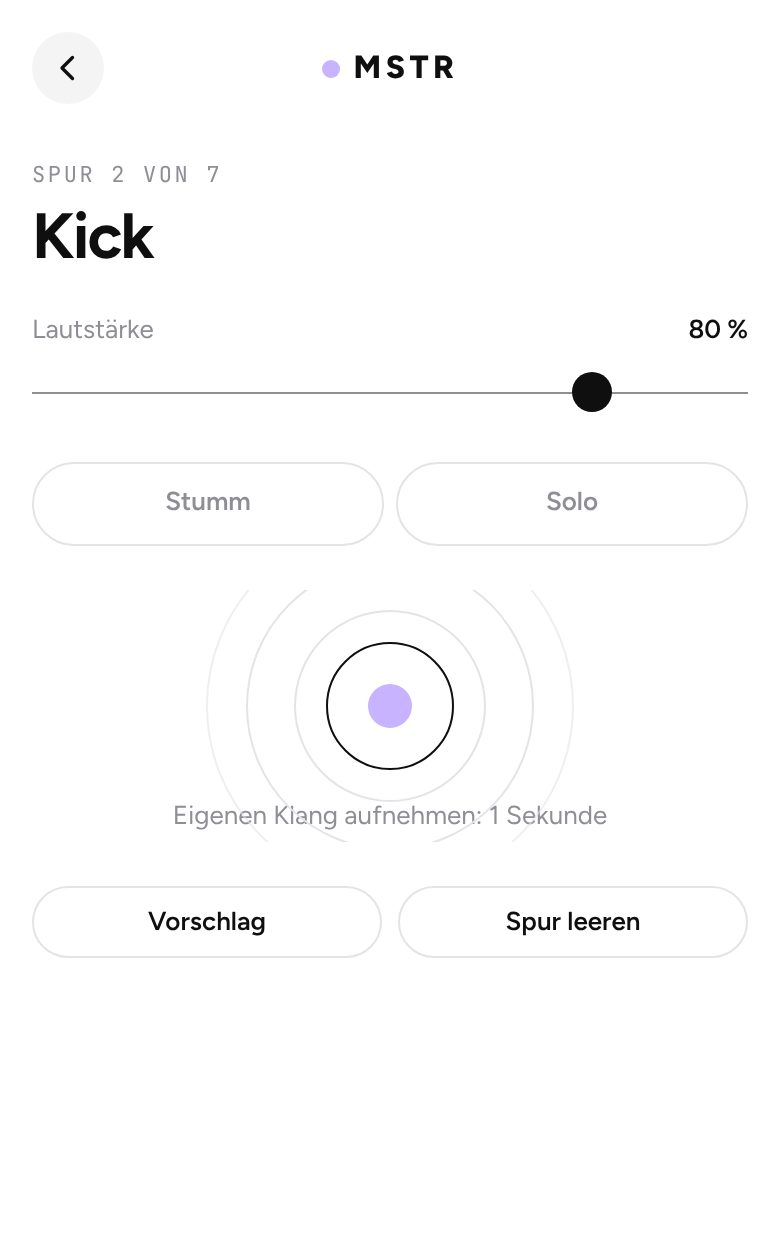
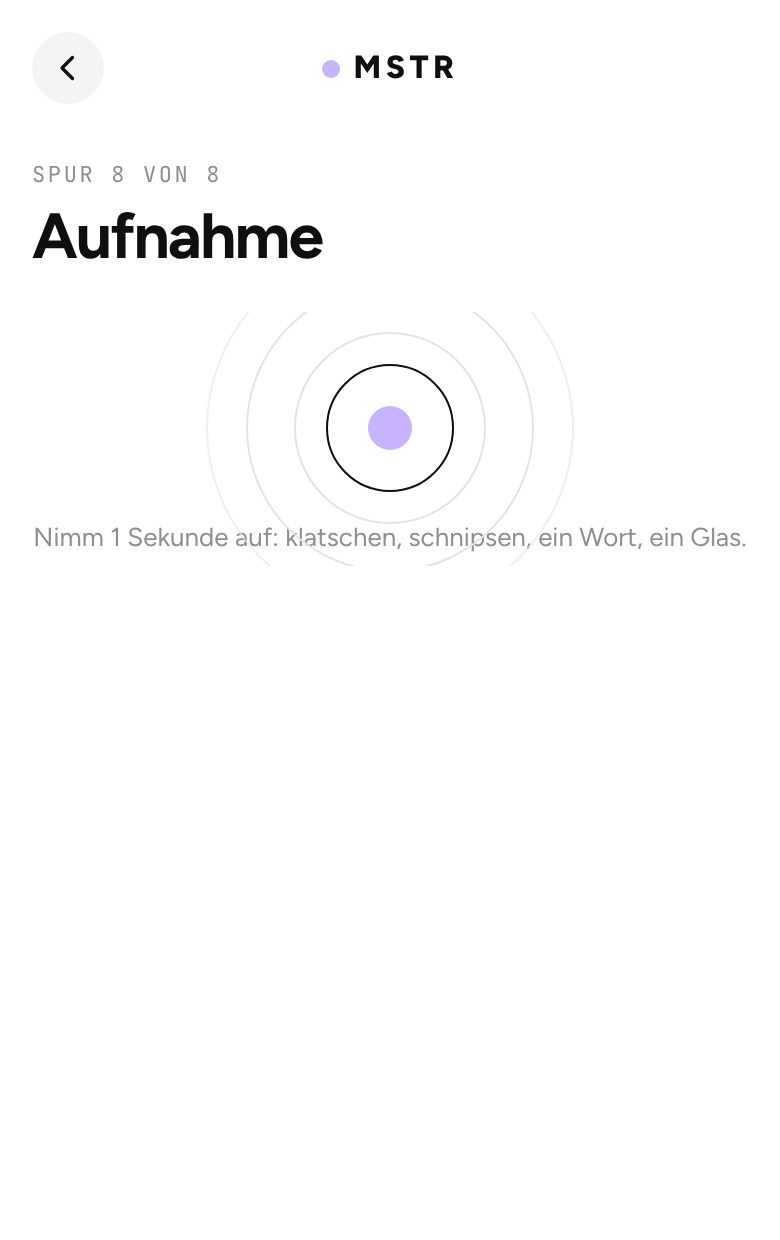
MSTR aktualisiert: Stand nach mstr PR #4 (Spur Aufnahme, 8 Spuren)
App neu aus mbroyer/mstr gebaut und kopiert, Vorschaubilder neu, Texte auf acht Spuren angepasst.

Claude-Session: https://claude.ai/code/session_01WCtGHWDGUQkbeKqMAr17nL

diff --git a/mstr/spiel/index.html b/mstr/spiel/index.html
@@ -64,6 +64,8 @@ button:focus-visible,input:focus-visible{outline:2px solid var(--accent);outline
 .ms{width:26px;height:22px;border-radius:6px;border:1px solid var(--line);background:transparent;font-family:var(--f-mono);font-size:10px;font-weight:500;cursor:pointer;color:var(--mute);padding:0;flex:none}
 .ms[aria-pressed="true"]{background:var(--ink);color:var(--bg);border-color:var(--ink)}
 .trk.quiet .steps{opacity:.28}
+/* Die eigene Spur Aufnahme steht etwas abgesetzt unter den eingebauten */
+.trk.own{border-top:1px solid var(--line);padding-top:clamp(12px,2.6vh,24px)}
 .steps{display:flex;gap:clamp(6px,2.4vw,14px)}
 .grp{flex:1;display:grid;grid-template-columns:repeat(4,minmax(0,1fr));gap:clamp(3px,1vw,6px)}
 .dot{aspect-ratio:1;width:100%;max-width:100%;border-radius:50%;border:0;background:var(--off);padding:0;cursor:pointer;display:grid;place-items:center;font-family:var(--f-mono);font-size:clamp(8px,2.2vw,11px);font-weight:500;color:var(--bg);line-height:1;transition:background .1s,transform .1s,box-shadow .1s}
@@ -163,7 +165,7 @@ input[type=range]::-moz-range-thumb{width:20px;height:20px;border-radius:50%;bac
 .recst{margin:0;font-size:13px;color:var(--mute);text-align:center;min-height:1.45em}
 .recbox.count .recst{font-size:28px;font-weight:700;color:var(--ink);font-variant-numeric:tabular-nums}
 .recbox.on .recst{color:var(--ink);font-weight:600}
-.recrow{display:flex;gap:8px;align-items:center;width:100%}
+.more{display:flex;flex-direction:column;gap:22px}
 .acts{display:flex;gap:8px;flex-wrap:wrap}
 .acts .pill{flex:1}
 
@@ -278,7 +280,9 @@ var TRACKS=[
   {id:'cym',n:'Becken',s:[['c','Crash'],['r','Ride'],['h','China']]},
   {id:'click',n:'Perc',s:[['1','Shaker'],['2','Tamburin'],['3','Clave'],['4','Conga'],['5','Cowbell']]},
   {id:'toms',n:'Toms',s:[['b','Tief'],['p','Mittel'],['t','Hoch']]},
-  {id:'fx',n:'FX',s:[['m','Snap'],['n','Sub'],['s','Reverse'],['l','Wirbel'],['z','Riser']]}];
+  {id:'fx',n:'FX',s:[['m','Snap'],['n','Sub'],['s','Reverse'],['l','Wirbel'],['z','Riser']]},
+  /* Eigene Spur: spielt nur die eigene Aufnahme, in drei Tonhöhen */
+  {id:'mic',n:'Aufnahme',s:[['a','Normal'],['t','Tief'],['h','Hoch']]}];
 var N=16,R=TRACKS.length;
 var PENT=[0,57,60,62,64,67],RATE=[1,.84,1.19,1.33,1.5];
 var bpm=100,sw=0;
@@ -333,6 +337,7 @@ var dr={
 };
 /* n = [Schritt, Klangzeichen, Länge, Lautstärke] */
 function playSynth(id,t,n){
+  if(id==='mic')return;
   var v=n[3],w=n[1],six=st();
   if(id==='beat'){var kl=bpm>=128?.38:.22;
     var g=vca(t,.001,0,kl,1.05*v,kl>.3?B.SAT:B.OUT);var o=osc('sine',150,t,t+kl+.05,g);o.frequency.exponentialRampToValueAtTime(kl>.3?44:52,t+.07);
@@ -389,9 +394,11 @@ function playSynth(id,t,n){
       var sz=ac.createBufferSource();sz.buffer=B.NZ;sz.loop=true;sz.connect(hz2);sz.start(t);sz.stop(t+L+.02);send(gz,B.REV,.45);}}
 }
 
-/* ---------- Eigene Klänge: 1 Sekunde aufnehmen, Stille abschneiden, als WAV auf diesem Gerät speichern ---------- */
-var REC={},ownV={};
-TRACKS.forEach(function(m){var s=lsGet('mstr-rec-'+m.id);if(s){ownV[m.id]=lsGet('mstr-own-'+m.id)!=='0';REC[m.id]={b64:s};}});
+/* ---------- Eigener Klang: 1 Sekunde aufnehmen, Stille abschneiden, als WAV auf diesem Gerät speichern. Nur für die Spur Aufnahme ---------- */
+var REC={};
+/* Früher konnte jede Spur eine Aufnahme haben: die erste vorhandene wandert in die Spur Aufnahme, die übrigen fallen weg */
+TRACKS.forEach(function(m){if(m.id==='mic')return;var s=lsGet('mstr-rec-'+m.id);if(s&&!lsGet('mstr-rec-mic'))lsSet('mstr-rec-mic',s);if(s)lsSet('mstr-rec-'+m.id,null);lsSet('mstr-own-'+m.id,null);});
+(function(){var s=lsGet('mstr-rec-mic');if(s)REC.mic={b64:s};})();
 function b64buf(s){var bin=atob(s),a=new Uint8Array(bin.length),i;for(i=0;i<bin.length;i++)a[i]=bin.charCodeAt(i);return a.buffer;}
 function trimBuf(buf){var d=buf.getChannelData(0),sr=buf.sampleRate,peak=0,i;for(i=0;i<d.length;i++)peak=Math.max(peak,Math.abs(d[i]));if(peak<.01)return null;
   var th=peak*.12,a=0,b=d.length-1;while(a<d.length&&Math.abs(d[a])<th)a++;while(b>a&&Math.abs(d[b])<th*.5)b--;a=Math.max(0,a-sr*.01|0);b=Math.min(d.length,b+sr*.08|0,a+sr*.7|0);
@@ -402,7 +409,7 @@ function wavB64(buf){var d=buf.getChannelData(0),stp=buf.sampleRate>=44100?2:1,s
   w(0,'RIFF');v.setUint32(4,36+n*2,true);w(8,'WAVE');w(12,'fmt ');v.setUint32(16,16,true);v.setUint16(20,1,true);v.setUint16(22,1,true);v.setUint32(24,sr,true);v.setUint32(28,sr*2,true);v.setUint16(32,2,true);v.setUint16(34,16,true);w(36,'data');v.setUint32(40,n*2,true);
   for(i=0;i<n;i++){var x=Math.max(-1,Math.min(1,d[i*stp]));v.setInt16(44+i*2,x*32767,true);}
   var u=new Uint8Array(ab),bin='';for(i=0;i<u.length;i+=8192)bin+=String.fromCharCode.apply(null,u.subarray(i,i+8192));return btoa(bin);}
-function useOwn(id){return !!(REC[id]&&ownV[id]);}
+function useOwn(id){return id==='mic'&&!!REC.mic;}
 function playRec(id,t,n){var r=REC[id];if(!r.buf){decodeRec(id);return playSynth(id,t,n);}var s=ac.createBufferSource();s.buffer=r.buf;var k=Math.max(0,sndIx(trIx(id),n[1]));s.playbackRate.value=id==='click'?Math.pow(2,(PENT[+n[1]]-60)/12):RATE[k%5];
   var g=vca(t,.003,0,.06,.9*n[3],id==='beat'?B.SAT:B.DUCK);s.connect(g);s.start(t);if(id==='beat')duck(t);send(g,B.REV,.15);}
 function play(id,t,n){if(!bus())return;if(useOwn(id))return playRec(id,t,n);playSynth(id,t,n);}
@@ -422,18 +429,18 @@ function record(id,status,done){
       var n=0,k,o=0;parts.forEach(function(x){n+=x.length;});if(!n){status('Die Aufnahme ist leer. Bitte noch einmal versuchen.');return done(false);}
       var raw=ac.createBuffer(1,n,ac.sampleRate),d=raw.getChannelData(0);for(k=0;k<parts.length;k++){d.set(parts[k],o);o+=parts[k].length;}
       var tb=trimBuf(raw);if(!tb){status('Zu leise. Bitte näher ans Mikrofon und noch einmal.');return done(false);}
-      var b64=wavB64(tb);REC[id]={b64:b64,buf:tb};ownV[id]=true;lsSet('mstr-rec-'+id,b64);lsSet('mstr-own-'+id,'1');
+      var b64=wavB64(tb);REC[id]={b64:b64,buf:tb};lsSet('mstr-rec-'+id,b64);
       status('Gespeichert, nur auf diesem Gerät.');setTimeout(function(){playRec(id,ac.currentTime+.05,[0,TRACKS[trIx(id)].s[0][0],2,1]);},300);done(true);}
     status('3',1);setTimeout(function(){status('2',1);},500);setTimeout(function(){status('1',1);},1000);
     setTimeout(function(){status('Aufnahme läuft',2);on=true;setTimeout(fin,1100);},1500);})
   .catch(function(){status('Kein Zugriff aufs Mikrofon. Bitte in den Browser-Einstellungen erlauben.');done(false);});
 }
-function dropRec(id){delete REC[id];delete ownV[id];lsSet('mstr-rec-'+id,null);lsSet('mstr-own-'+id,null);}
+function dropRec(id){delete REC[id];lsSet('mstr-rec-'+id,null);}
 
 /* ===== MSTR: Raster, Transport, Vorlagen, Spur-Einstellungen ===== */
 (function(){
-  /* Vorschläge zum Würfeln für Becken, Perc, Toms und FX (16 Schritte) */
-  var COMMON={cym:['c...............','r.r.r.r.r.r.r.r.','..r...r...r...r.'],click:['1.1.1.1.1.1.1.1.','....2.......2...','3..3..3...3.3...'],toms:['b...p...b...p...','b.......t.t.....','b..b....p...tt..'],fx:['....m.......m...','n.....n...n.....','............z...']};
+  /* Vorschläge zum Würfeln für Becken, Perc, Toms, FX und die eigene Aufnahme (16 Schritte) */
+  var COMMON={cym:['c...............','r.r.r.r.r.r.r.r.','..r...r...r...r.'],click:['1.1.1.1.1.1.1.1.','....2.......2...','3..3..3...3.3...'],toms:['b...p...b...p...','b.......t.t.....','b..b....p...tt..'],fx:['....m.......m...','n.....n...n.....','............z...'],mic:['....a.......a...','a.......a.a.....','..a...a...a.h.t.']};
   var NM={boombap:'Boom Bap',house:'House',funk:'Funk',rock:'Rock',techno:'Techno',trap:'Trap',disco:'Disco',bossa:'Bossa',dnb:"Drum'n'Bass",shuffle:'Shuffle',afro:'Afro',minimal:'Minimal',hardtechno:'Hardtechno'};
   /* Je Vorlage eigene Muster für Becken, Perc, Toms und FX. Becken: c Crash, r Ride, h China. Perc: 1 Shaker, 2 Tamburin, 3 Clave, 4 Conga, 5 Cowbell.
      FX: m Snap, n Sub, s Reverse, l Wirbel, z Riser. Riser und Reverse dauern vier Schritte, auf Schritt 13 laufen sie genau in die nächste Eins */
@@ -460,7 +467,9 @@ function dropRec(id){delete REC[id];delete ownV[id];lsSet('mstr-rec-'+id,null);l
     click:'<circle cx="12" cy="12" r="7.5"/><circle cx="12" cy="4.5" r="1.3" class="f"/><circle cx="19.5" cy="12" r="1.3" class="f"/><circle cx="12" cy="19.5" r="1.3" class="f"/><circle cx="4.5" cy="12" r="1.3" class="f"/>',
     toms:'<circle cx="4.8" cy="14" r="2.3"/><circle cx="10.8" cy="13" r="3.2"/><circle cx="18.2" cy="12" r="4.2"/>',
     fx:'<path d="M3 12c2.2-6 4.3-6 6 0s3.8 6 6 0 3.8-6 6 0"/>',
-    cym:'<path d="M3.5 10.5c3-2.4 14-2.4 17 0"/><path d="M12 8.6V20M8.5 20h7"/><circle cx="12" cy="7.4" r="1" class="f"/>'};
+    cym:'<path d="M3.5 10.5c3-2.4 14-2.4 17 0"/><path d="M12 8.6V20M8.5 20h7"/><circle cx="12" cy="7.4" r="1" class="f"/>',
+    mic:'<rect x="9" y="3.5" width="6" height="10.5" rx="3"/><path d="M6.2 11.2a5.8 5.8 0 0 0 11.6 0M12 17v3.5M9 20.5h6"/>'};
+  var MIC=trIx('mic');
   var pat,vol=[],mute=[],solo=[],pre=0,edited=false,brush=TRACKS.map(function(t){return t.s[0][0];}),pk=[],lastDice=[];
   var cells=[],rows=[],playing=false,step=0,nextT=0,timer=0,queue=[],raf=0,shown=-1,drop=0;
   var $=function(id){return document.getElementById(id);};
@@ -483,19 +492,25 @@ function dropRec(id){delete REC[id];delete ownV[id];lsSet('mstr-rec-'+id,null);l
   /* Für die Umrechnung alter Stände: Crashes (c) aus der Toms-Zeile in die Becken-Zeile */
   function onlyC(x){return x.replace(/[^c]/g,'0');}
   function noC(x){return x.replace(/c/g,'0');}
+  /* Die Spur Aufnahme gehört dir: eine Vorlage lässt sie, wie sie ist */
   function fromBeat(i){var Bt=BEATS[i],X=EXTRA[Bt.n],r;for(r=0;r<3;r++)pat[r]=rowFromBeat(Bt,TRACKS[r].id);
-    for(r=3;r<R;r++)pat[r]=dots(X?X[r-3]:COMMON[TRACKS[r].id][0]);bpm=Bt.bpm;sw=Bt.sw;pre=i;edited=false;}
+    for(r=3;r<R;r++)if(r!==MIC)pat[r]=dots(X?X[r-3]:COMMON[TRACKS[r].id][0]);bpm=Bt.bpm;sw=Bt.sw;pre=i;edited=false;}
   function num(x,lo,hi,d){x=+x;return isFinite(x)?Math.max(lo,Math.min(hi,x)):d;}
   function arr(a,f,d){var o=[],r;for(r=0;r<R;r++)o.push(Array.isArray(a)&&a.length===R?f(a[r]):d);return o;}
 
   var P=S.pat;
   /* Alter Stand (vor v2): Spuren hats, beat, clap, snare, click, toms, fx. Die Clap wandert in die Snare,
      die Becken aus der Toms-Spur in die neue Becken-Spur an Stelle 3 */
-  if(P&&P.v!==2&&Array.isArray(P.g)&&P.g.length===R){
+  if(P&&!P.v&&Array.isArray(P.g)&&P.g.length===7){
     var g=P.g.map(function(x){return typeof x==='string'&&x.length===N?x:zero();}),sn='',k;
     for(k=0;k<N;k++)sn+=g[3].charAt(k)!=='0'?g[3].charAt(k):g[2].charAt(k)==='c'?'c':'0';
-    var mv=function(a,d){return Array.isArray(a)&&a.length===R?[a[0],a[1],a[3],d,a[4],a[5],a[6]]:a;};
+    var mv=function(a,d){return Array.isArray(a)&&a.length===7?[a[0],a[1],a[3],d,a[4],a[5],a[6]]:a;};
     P.g=[g[0],g[1],sn,onlyC(g[5]),g[4],noC(g[5]),g[6]];P.vol=mv(P.vol,.8);P.mute=mv(P.mute,false);P.solo=mv(P.solo,false);P.br=mv(P.br,'c');P.v=2;
+  }
+  /* Stand v2: sieben Spuren, die Spur Aufnahme kommt leer dazu */
+  if(P&&P.v===2&&Array.isArray(P.g)&&P.g.length===7){
+    var add=function(a,d){if(Array.isArray(a)&&a.length===7)a.push(d);};
+    add(P.g,zero());add(P.vol,.8);add(P.mute,false);add(P.solo,false);add(P.br,'a');P.v=3;
   }
   if(P&&clean(P.g)){pat=clean(P.g);bpm=Math.round(num(P.bpm,60,180,100));sw=num(P.sw,0,.6,0);pre=P.pre|0;if(pre<-1||pre>=BEATS.length)pre=-1;edited=!!P.ed;}
   else{pat=empty();fromBeat(0);}
@@ -503,7 +518,7 @@ function dropRec(id){delete REC[id];delete ownV[id];lsSet('mstr-rec-'+id,null);l
   mute=arr(P&&P.mute,function(x){return !!x;},false);
   solo=arr(P&&P.solo,function(x){return !!x;},false);
   if(P&&Array.isArray(P.br)&&P.br.length===R)brush=brush.map(function(d,r){return sndIx(r,P.br[r])>=0?P.br[r]:d;});
-  function persist(){S.pat={v:2,g:pat,bpm:bpm,sw:sw,vol:vol,mute:mute,solo:solo,pre:pre,ed:edited,br:brush};save();}
+  function persist(){S.pat={v:3,g:pat,bpm:bpm,sw:sw,vol:vol,mute:mute,solo:solo,pre:pre,ed:edited,br:brush};save();}
   function anySolo(){return solo.some(Boolean);}
   function audible(r){return anySolo()?solo[r]:!mute[r];}
   function gainOf(r){return Math.pow(vol[r]/.8,1.6);} /* 80 % entspricht dem Originalpegel */
@@ -512,7 +527,7 @@ function dropRec(id){delete REC[id];delete ownV[id];lsSet('mstr-rec-'+id,null);l
   function build(){
     tracksEl.innerHTML='';cells=[];rows=[];
     TRACKS.forEach(function(T,r){
-      var row=document.createElement('div');row.className='trk';
+      var row=document.createElement('div');row.className='trk'+(r===MIC?' own':'');
       var tl=document.createElement('div');tl.className='tl';
       var ic=document.createElement('span');ic.className='ic';ic.innerHTML='<svg viewBox="0 0 24 24" aria-hidden="true">'+(ICON[T.id]||'')+'</svg>';tl.appendChild(ic);
       var tn=document.createElement('button');tn.type='button';tn.className='tn';tn.setAttribute('aria-haspopup','dialog');
@@ -529,6 +544,7 @@ function dropRec(id){delete REC[id];delete ownV[id];lsSet('mstr-rec-'+id,null);l
         for(var c=0;c<4;c++)(function(s){
           var b=document.createElement('button');b.type='button';b.className='dot';b.setAttribute('aria-label',T.n+', Schritt '+(s+1));
           b.addEventListener('click',function(){
+            if(r===MIC&&!REC.mic){trackSheet(r);return;} /* ohne Aufnahme gibt es nichts zu setzen: erst aufnehmen */
             var a=pat[r].split(''),on=a[s]!=='0';a[s]=on?'0':brush[r];pat[r]=a.join('');
             if(!on&&!playing)now(T.id,brush[r],gainOf(r));changed();
           });
@@ -549,7 +565,7 @@ function dropRec(id){delete REC[id];delete ownV[id];lsSet('mstr-rec-'+id,null);l
       rows[r].classList.toggle('quiet',!audible(r));
       rows[r].querySelector('.ms.m').setAttribute('aria-pressed',mute[r]?'true':'false');
       rows[r].querySelector('.ms.s').setAttribute('aria-pressed',solo[r]?'true':'false');
-      rows[r].querySelector('.tb').textContent=(multi?T.s[sndIx(r,brush[r])][1]:'')+(useOwn(T.id)?(multi?' · ':'')+'Aufnahme':'');
+      rows[r].querySelector('.tb').textContent=r===MIC&&!REC.mic?'Eigenen Klang aufnehmen':multi?T.s[sndIx(r,brush[r])][1]:'';
     }
     app.classList.toggle('solo',so);
     $('bpm').textContent=bpm;$('swTxt').textContent='Swing '+Math.round(sw*100)+' %';
@@ -672,24 +688,23 @@ function dropRec(id){delete REC[id];delete ownV[id];lsSet('mstr-rec-'+id,null);l
   $('tempoBtn').addEventListener('click',tempoSheet);
 
   function trackSheet(r){
-    var T=TRACKS[r],id=T.id,busy=false;
-    openSheet('<div class="sh-top"><div><span class="eyebrow">Spur '+(r+1)+' von '+R+'</span><h2 class="tt" id="sheetT">'+T.n+'</h2></div>'+X+'</div>'+
-      (T.s.length>1?'<div class="field"><span class="lbl">Klang für neue Schritte</span><div class="opts" id="kSnd"></div></div>':'')+
+    var T=TRACKS[r],id=T.id,mic=r===MIC,busy=false;
+    /* Nur die Spur Aufnahme hat das Mikrofon, ganz oben. Die übrigen Spuren klingen immer eingebaut */
+    var REC_UI=mic?'<div class="recbox"><div class="rings" aria-hidden="true"><i></i><i></i><i></i></div><button type="button" class="rec" id="kRec" aria-label="Eigenen Klang aufnehmen, 1 Sekunde"><i></i></button>'+
+      '<p class="recst" id="kRecSt" aria-live="polite"></p></div>':'';
+    openSheet('<div class="sh-top"><div><span class="eyebrow">Spur '+(r+1)+' von '+R+'</span><h2 class="tt" id="sheetT">'+T.n+'</h2></div>'+X+'</div>'+REC_UI+
+      '<div class="more" id="kMore">'+
+      (T.s.length>1?'<div class="field"><span class="lbl">'+(mic?'Tonhöhe für neue Schritte':'Klang für neue Schritte')+'</span><div class="opts" id="kSnd"></div></div>':'')+
       '<div class="slider"><div class="lb"><span>Lautstärke</span><b id="kVolV"></b></div><input type="range" id="kVol" min="0" max="100" step="1" value="'+Math.round(vol[r]*100)+'" aria-label="Lautstärke '+T.n+'"></div>'+
       '<div class="seg2"><button type="button" id="kMute">Stumm</button><button type="button" id="kSolo">Solo</button></div>'+
-      '<div class="recbox"><div class="rings" aria-hidden="true"><i></i><i></i><i></i></div><button type="button" class="rec" id="kRec" aria-label="Eigenen Klang aufnehmen, 1 Sekunde"><i></i></button>'+
-      '<p class="recst" id="kRecSt" aria-live="polite"></p>'+
-      '<div class="recrow" id="kRecRow"><div class="seg2 sm"><button type="button" id="kSyn">Eingebaut</button><button type="button" id="kOwn">Aufnahme</button></div><button type="button" class="pill sm" id="kDel">Löschen</button></div></div>'+
-      '<div class="acts"><button type="button" class="pill" id="kDice">Vorschlag</button><button type="button" class="pill" id="kClr">Spur leeren</button></div>',function(el){
+      '<div class="acts"><button type="button" class="pill" id="kDice">Vorschlag</button><button type="button" class="pill" id="kClr">Spur leeren</button>'+(mic?'<button type="button" class="pill" id="kDel">Aufnahme löschen</button>':'')+'</div></div>',function(el){
       var vs=el.querySelector('#kVol');
       function ui(){
         el.querySelector('#kVolV').textContent=vs.value+' %';
         el.querySelector('#kMute').setAttribute('aria-pressed',mute[r]?'true':'false');
         el.querySelector('#kSolo').setAttribute('aria-pressed',solo[r]?'true':'false');
-        var has=!!REC[id];el.querySelector('#kRecRow').hidden=!has;
-        el.querySelector('#kSyn').setAttribute('aria-pressed',useOwn(id)?'false':'true');
-        el.querySelector('#kOwn').setAttribute('aria-pressed',useOwn(id)?'true':'false');
-        if(!busy)el.querySelector('#kRecSt').textContent=has?'Eigener Klang gespeichert. Tippen zum Neuaufnehmen.':'Eigenen Klang aufnehmen: 1 Sekunde';
+        if(mic){var has=!!REC.mic;el.querySelector('#kMore').hidden=!has;
+          if(!busy)el.querySelector('#kRecSt').textContent=has?'Dein Klang ist gespeichert. Tippen zum Neuaufnehmen.':'Nimm 1 Sekunde auf: klatschen, schnipsen, ein Wort, ein Glas.';}
         var o=el.querySelector('#kSnd');if(o)[].forEach.call(o.children,function(b,k){b.setAttribute('aria-pressed',T.s[k][0]===brush[r]?'true':'false');});
       }
       var o=el.querySelector('#kSnd');
@@ -699,15 +714,18 @@ function dropRec(id){delete REC[id];delete ownV[id];lsSet('mstr-rec-'+id,null);l
       vs.addEventListener('change',function(){persist();now(id,brush[r],gainOf(r));});
       el.querySelector('#kMute').addEventListener('click',function(){mute[r]=!mute[r];ui();paint();persist();});
       el.querySelector('#kSolo').addEventListener('click',function(){solo[r]=!solo[r];ui();paint();persist();});
-      el.querySelector('#kSyn').addEventListener('click',function(){ownV[id]=false;lsSet('mstr-own-'+id,'0');ui();paint();now(id,brush[r],gainOf(r));});
-      el.querySelector('#kOwn').addEventListener('click',function(){ownV[id]=true;lsSet('mstr-own-'+id,'1');ui();paint();now(id,brush[r],gainOf(r));});
-      el.querySelector('#kDel').addEventListener('click',function(){dropRec(id);ui();paint();});
-      var rb=el.querySelector('#kRec'),stE=el.querySelector('#kRecSt'),box=el.querySelector('.recbox');
-      rb.addEventListener('click',function(){if(busy)return;busy=true;rb.disabled=true;
-        record(id,function(msg,lv){stE.textContent=msg;box.classList.toggle('count',lv===1);box.classList.toggle('on',lv===2);},
-          function(){busy=false;rb.disabled=false;box.classList.remove('on','count');ui();paint();});});
       el.querySelector('#kDice').addEventListener('click',function(){dice(r);if(!playing)setPlay(true);});
       el.querySelector('#kClr').addEventListener('click',function(){pat[r]=zero();changed();});
+      if(mic){
+        el.querySelector('#kDel').addEventListener('click',function(){dropRec(id);pat[r]=zero();changed();ui();});
+        var rb=el.querySelector('#kRec'),stE=el.querySelector('#kRecSt'),box=el.querySelector('.recbox');
+        rb.addEventListener('click',function(){if(busy)return;busy=true;rb.disabled=true;
+          record(id,function(msg,lv){stE.textContent=msg;box.classList.toggle('count',lv===1);box.classList.toggle('on',lv===2);},
+            function(ok){busy=false;rb.disabled=false;box.classList.remove('on','count');
+              /* Erste Aufnahme in eine leere Spur: gleich auf 2 und 4 legen, damit man sie im Beat hört */
+              if(ok&&pat[r]===zero()){pat[r]=dots(COMMON.mic[0]);changed();}
+              ui();paint();});});
+      }
       ui();
     },'spur-'+id);
   }

diff --git a/mstr/index.html b/mstr/index.html
@@ -4,7 +4,7 @@
 <meta charset="utf-8">
 <meta name="viewport" content="width=device-width,initial-scale=1,viewport-fit=cover">
 <meta name="theme-color" content="#ffffff">
-<meta name="description" content="Beats bauen im Browser. Sieben Spuren, sechzehn Schritte, eigene Klänge mit dem Mikrofon.">
+<meta name="description" content="Beats bauen im Browser. Acht Spuren, sechzehn Schritte, dazu ein eigener Klang übers Mikrofon.">
 <title>MSTR</title>
 <link rel="preconnect" href="https://fonts.googleapis.com">
 <link rel="preconnect" href="https://fonts.gstatic.com" crossorigin>
@@ -41,16 +41,16 @@ body{margin:0;min-height:100vh;background:var(--bg);color:var(--ink);font:400 16
 <section class="pv" aria-label="Vorschau">
   <h1 class="logo"><i aria-hidden="true"></i>MSTR</h1>
   <p class="say">gesprochen „Muster“</p>
-  <p class="lead">Beats bauen im Browser. Sieben Spuren, sechzehn Schritte, eigene Klänge mit dem Mikrofon.</p>
+  <p class="lead">Beats bauen im Browser. Acht Spuren, sechzehn Schritte, dazu ein eigener Klang übers Mikrofon.</p>
   <div class="shots">
     <figure><img src="vorschau-1.jpg" alt="Das Raster mit sieben Spuren, die Vorlage Boom Bap läuft" width="390" height="620"><figcaption>Tippen, und der Beat läuft</figcaption></figure>
     <figure><img src="vorschau-2.jpg" alt="Liste der Vorlagen nach Tempo, von Boom Bap bis Disco" width="390" height="620" loading="lazy"><figcaption>13 Vorlagen zum Loslegen</figcaption></figure>
-    <figure><img src="vorschau-3.jpg" alt="Einstellungen der Spur Kick mit Lautstärke und Aufnahmeknopf" width="390" height="620" loading="lazy"><figcaption>Eigenen Klang aufnehmen</figcaption></figure>
+    <figure><img src="vorschau-3.jpg" alt="Die Spur Aufnahme mit dem Aufnahmeknopf" width="390" height="620" loading="lazy"><figcaption>Eigenen Klang aufnehmen</figcaption></figure>
   </div>
   <ol class="steps">
     <li><b>01</b>Eine Vorlage wählen oder mit leerem Raster anfangen</li>
     <li><b>02</b>Schritte antippen, Tempo und Swing einstellen</li>
-    <li><b>03</b>Klänge wechseln oder mit dem Mikrofon selbst aufnehmen</li>
+    <li><b>03</b>Klänge wechseln und in der Spur Aufnahme selbst etwas aufnehmen</li>
   </ol>
   <div class="play"><a href="spiel/">Jetzt loslegen</a><small>Ohne Anmeldung. Läuft auf Handy, Tablet und Computer, am besten mit Kopfhörern.</small></div>
 </section>

diff --git a/index.html b/index.html
@@ -195,7 +195,7 @@
       <div class="tile t6">
         <span class="nr mono">Nr. 006 · Musik</span>
         <a class="more" href="mstr/"><h2>MSTR</h2></a>
-        <p>Beats bauen im Browser. Sieben Spuren, sechzehn Schritte, eigene Klänge.</p>
+        <p>Beats bauen im Browser. Acht Spuren, sechzehn Schritte, ein eigener Klang.</p>
         <a class="go" href="mstr/spiel/">Loslegen →</a>
         <span class="chip mono">im Test</span>        <div class="phone"><img src="mstr/vorschau-1.jpg" alt="" loading="lazy" width="390" height="620"></div>
       </div>
